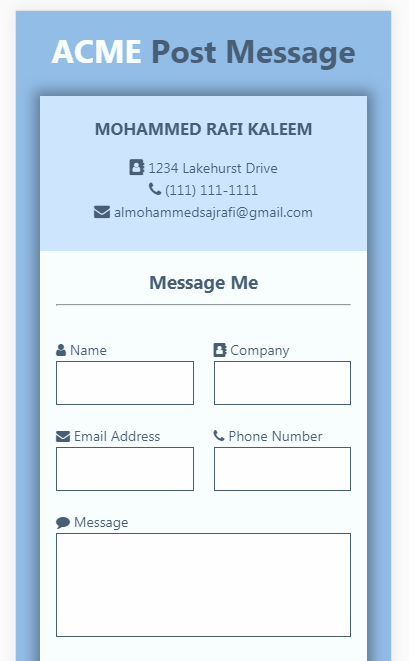
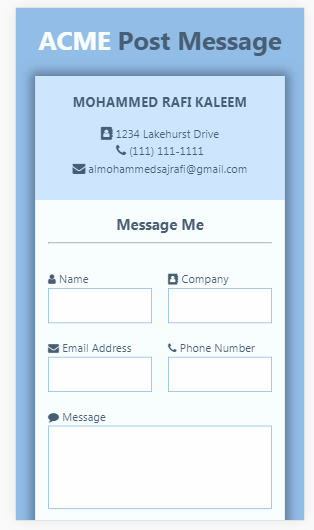
CSS Changes

diff --git a/styles.css b/styles.css
@@ -95,7 +95,7 @@ body {
     .panel-body form input, .panel-body form textarea, .panel-body form button {
         padding: 1em;
         width: 100%;
-        border: 1px solid #485e74;
+        border: 1px solid #92bde7;
         resize: none;
     }
 
@@ -104,21 +104,21 @@ body {
     }
 
     .panel-body form button {
-        background: #485e74;
-        color: #f9feff;
+        background: #cee7ff;
+        color: #485e74;
         text-transform: uppercase;
         font-size: 16px;
         cursor: pointer;
         border: 0;
-        transition: background 2s ease-out;
         font-weight: bold;
     }
 
         .panel-body form button:hover,
         .panel-body form button:focus {
             background: #92bde7;
+            transition: background 2s ease-out;
         }
-
+         
 /** Large Screens **/
 @media(min-width: 700px) {
 

diff --git a/index.html b/index.html
@@ -42,7 +42,7 @@
                         <input type="email" name="emailaddress" />
                     </p>
                     <p>
-                        <label><i class="fa fa-phone"></i> Phone Number</label>
+                        <label><i class="fa fa-phone"></i> Phone #</label>
                         <input type="text" name="phone" />
                     </p>
                     <p class="full">
@@ -55,10 +55,6 @@
                 </form>
             </div>
         </div>
-        <div class="footer-content animated bounceInLeft">
-            <a href="https://github.com/Mohammeddeveloper" target="_blank">https://github.com/Mohammeddeveloper</a>
-        </div>
-
     </div>
 
 </body>
